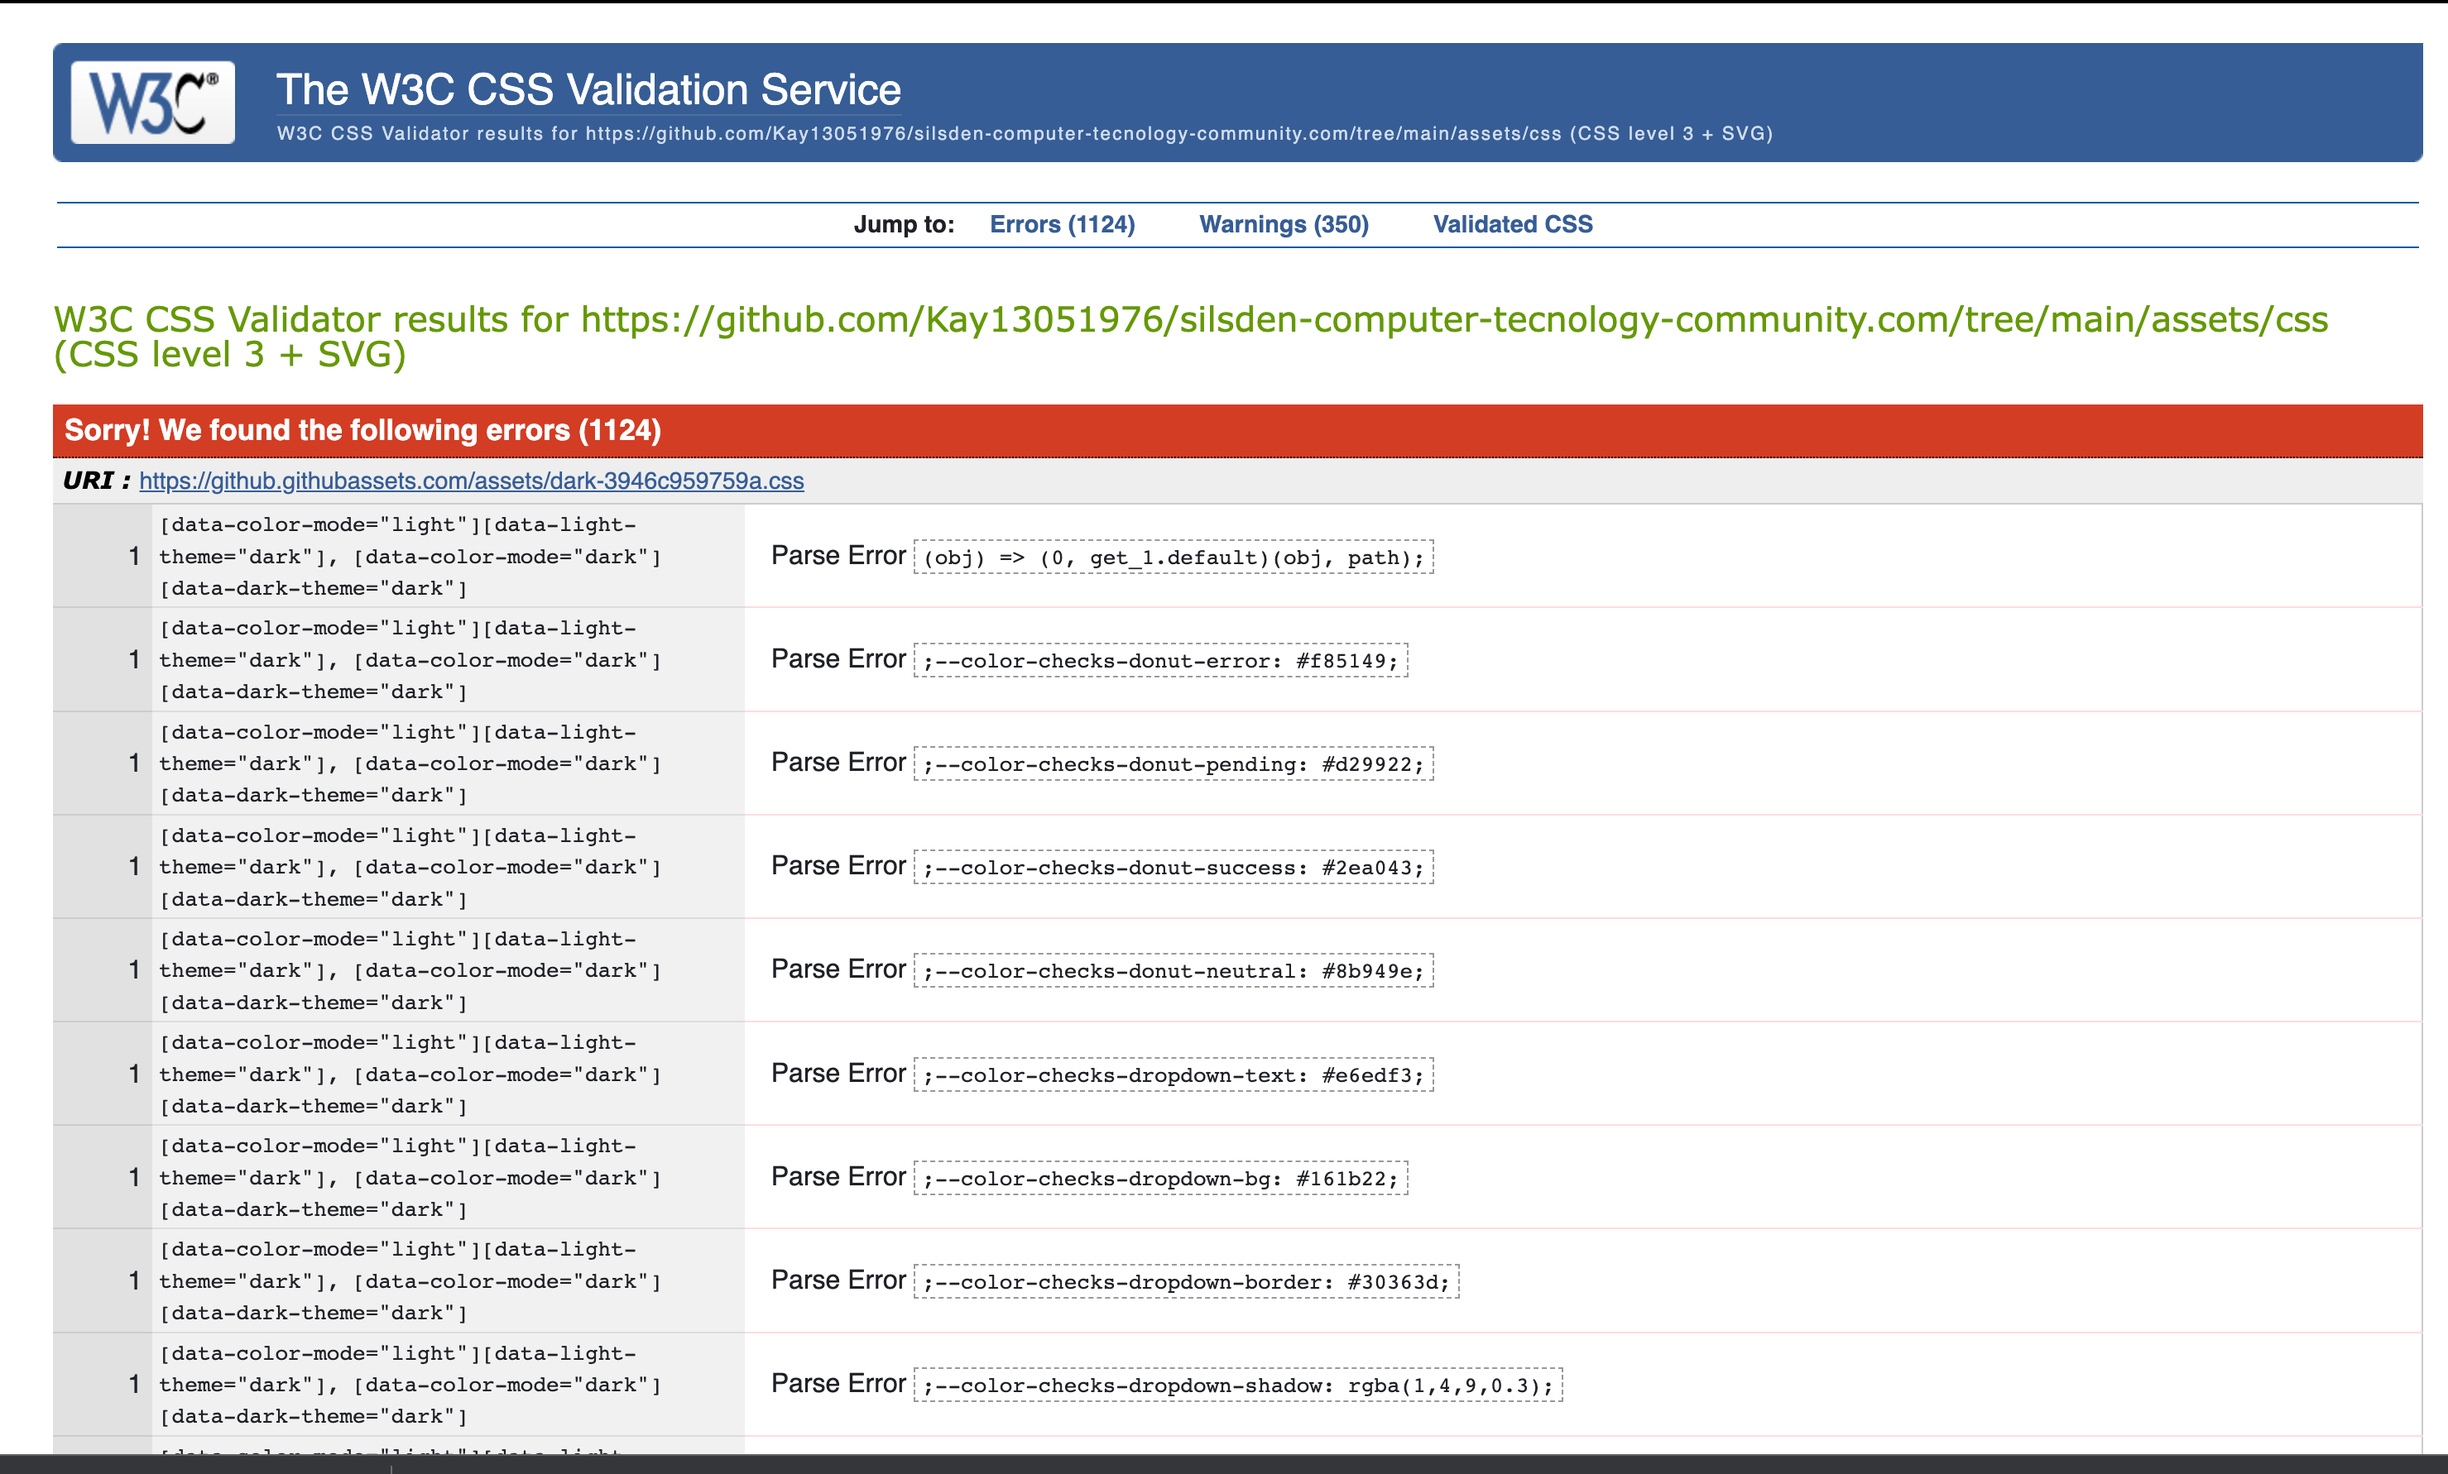
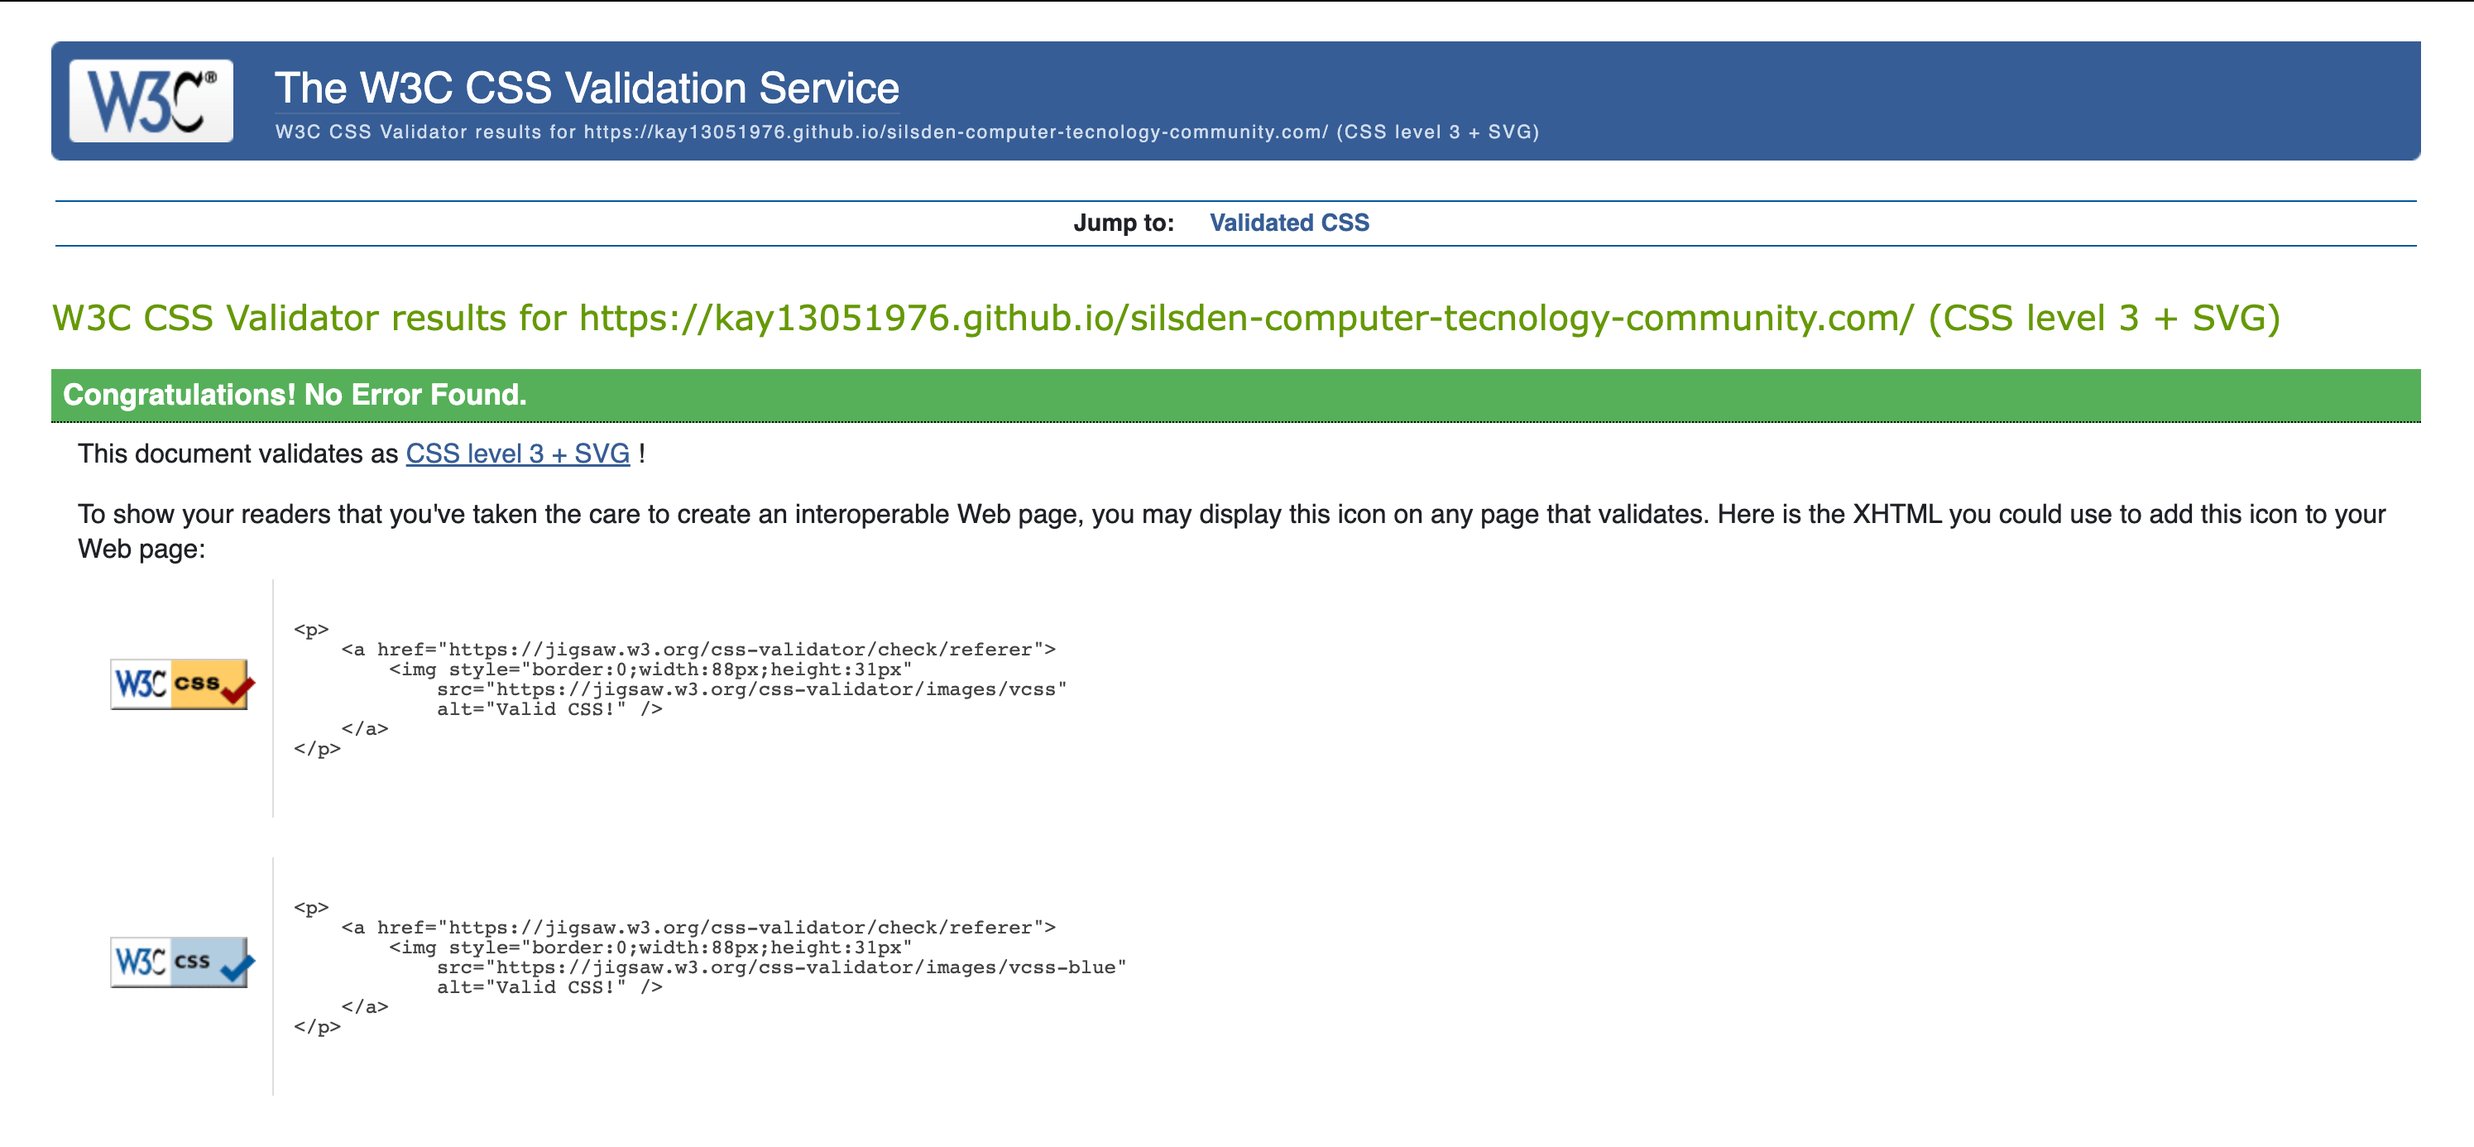
Add README.md file

diff --git a/README.md b/README.md
@@ -353,9 +353,7 @@ No errors or warnings were found when passing through the official W3C (Jigsaw) 
  No errors or warnings were found when passing through the official W3C validator.
 ![Css validation by direct input](documentation/css_validation_by_direct_input.png)[here](https://jigsaw.w3.org/css-validator/validator?uri=https%3A%2F%2Fgithub.com%2FKay13051976%2Fsilsden-computer-tecnology-community.com%2Ftree%2Fmain%2Fassets%2Fcss&profile=css3svg&usermedium=all&warning=1&vextwarning=&lang=en)
 
-
-but when using URL it was 1124 found. Even though error is present, I don't believe it is 100% accurate, and more information con be found [here](https://jigsaw.w3.org/css-validator/validator?uri=https%3A%2F%2Fgithub.com%2FKay13051976%2Fsilsden-computer-tecnology-community.com%2Ftree%2Fmain%2Fassets%2Fcss&profile=css3svg&usermedium=all&warning=1&vextwarning=&lang=en)
-
+When using the URL, No errors or warnings were found When passing Through the official W3C validator.
 ![Css validation by URL](documentation/css_validation_by_url.png)
 
 
